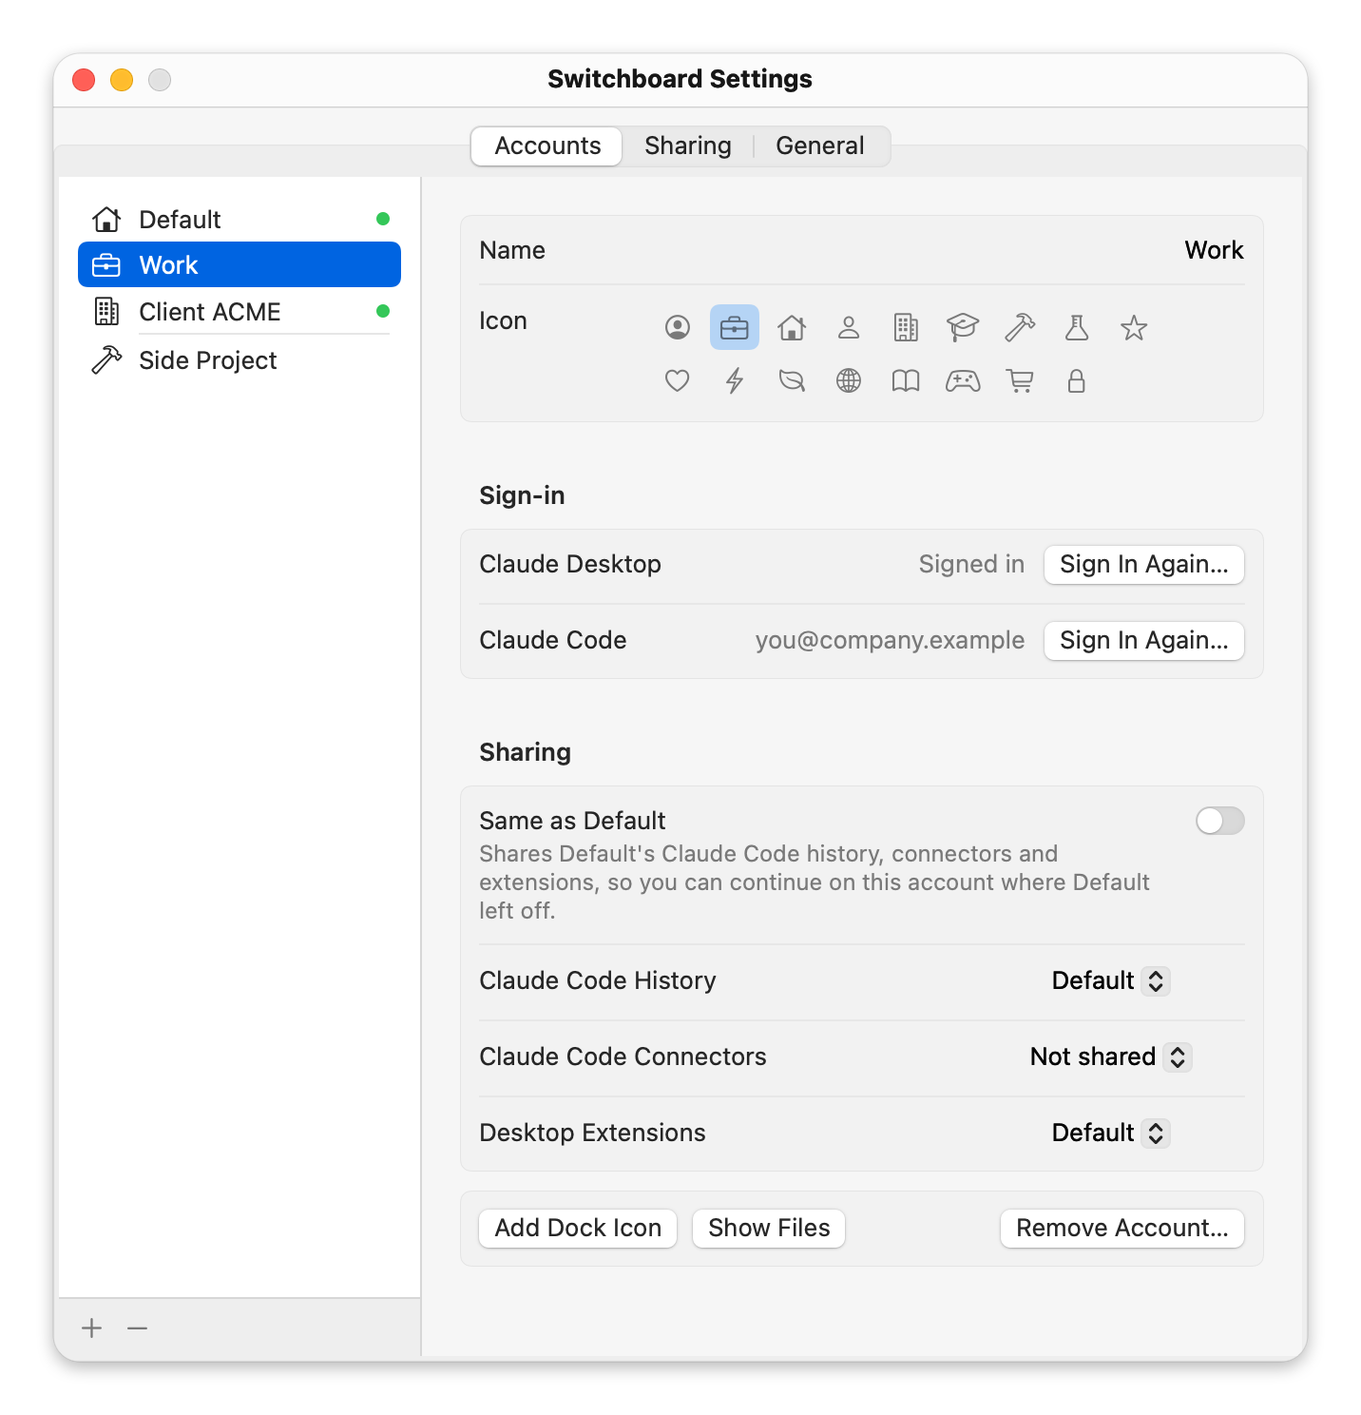
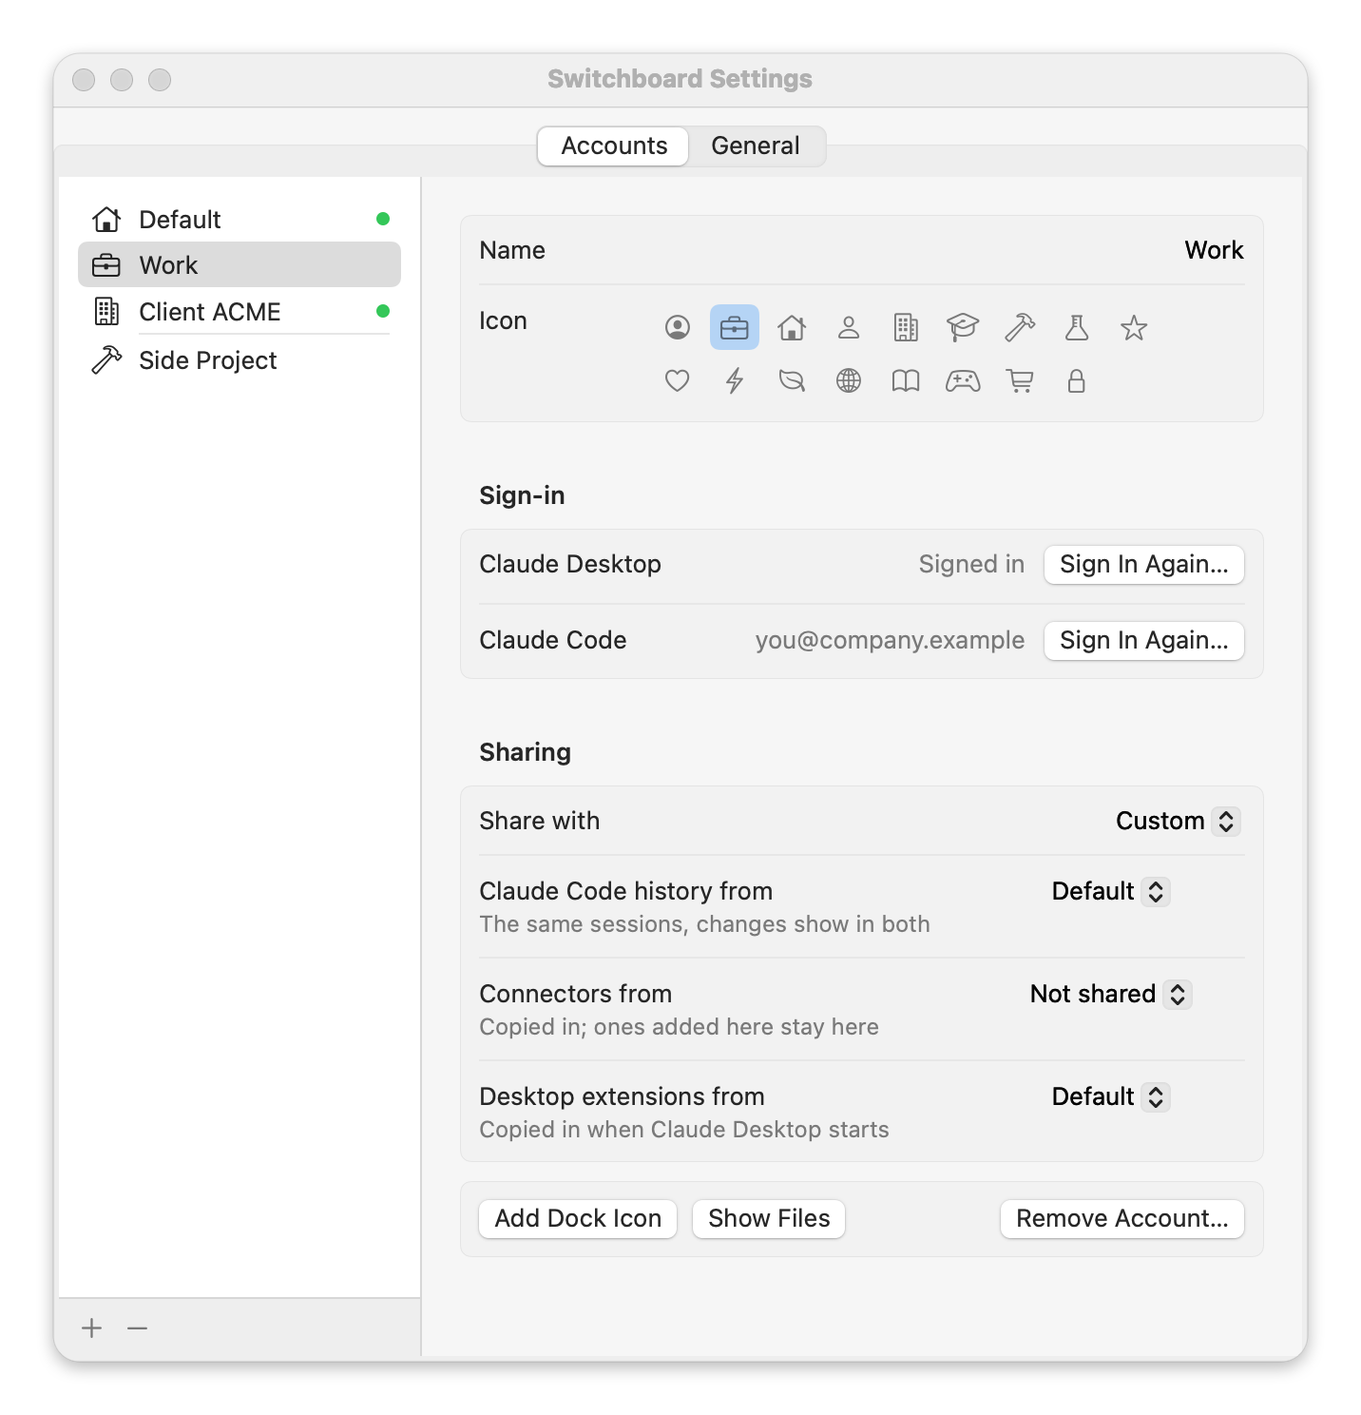
refactor: one sharing choice per account, no Sharing tab
The Sharing tab (a table of nine menus) and the account page both set
the same things, "Default" read like a default value rather than an
account, and "Share with" did not say which way things go.

- Each account's page has one choice: Same as <Default's shown name>,
  Separate, or Custom. Custom shows three "… from" menus, each with a
  line saying how it behaves: history is the same sessions in both,
  connectors and extensions are copied one way.
- Choosing Separate while history is shared asks first.
- The Sharing tab is gone; Settings has Accounts and General.
- Docs explain that only history stays in sync.

diff --git a/Sources/Switchboard/SettingsView.swift b/Sources/Switchboard/SettingsView.swift
@@ -46,8 +46,6 @@ struct SettingsView: View {
         TabView(selection: $model.tab) {
             AccountsPane(model: model)
                 .tabItem { Label("Accounts", systemImage: "person.2") }.tag(SettingsModel.Tab.accounts)
-            SharingPane(model: model)
-                .tabItem { Label("Sharing", systemImage: "arrow.triangle.branch") }.tag(SettingsModel.Tab.sharing)
             GeneralPane(model: model)
                 .tabItem { Label("General", systemImage: "gearshape") }.tag(SettingsModel.Tab.general)
         }
@@ -139,38 +137,10 @@ private struct AccountDetail: View {
                     Button(profile.codeSignedIn ? "Sign In Again…" : "Sign In…") { model.signInCode(profile) }
                 }
             }
-            Section {
-                if profile.isDefault {
-                    let shared = model.sharesFrom(profile)
-                    if shared.isEmpty {
-                        Text("No account shares from this one yet.").foregroundStyle(.secondary)
-                    } else {
-                        ForEach(shared, id: \.thing) { entry in
-                            LabeledContent(entry.thing.title) {
-                                Text(entry.accounts.map(\.displayName).joined(separator: ", ")).foregroundStyle(.secondary)
-                            }
-                        }
-                    }
-                } else {
-                    Toggle(isOn: Binding(get: { model.isSameAsDefault(profile) },
-                                         set: { model.setSameAsDefault(profile, $0) })) {
-                        VStack(alignment: .leading, spacing: 2) {
-                            Text("Same as Default")
-                            Text("Shares Default's Claude Code history, connectors and extensions, so you can continue on this account where Default left off.")
-                                .font(.callout).foregroundStyle(.secondary).fixedSize(horizontal: false, vertical: true)
-                        }
-                    }
-                    if !model.isSameAsDefault(profile) {
-                        ForEach(SharedThing.allCases, id: \.self) { thing in
-                            LabeledContent(thing.title) {
-                                SourcePicker(model: model, profile: profile, thing: thing).frame(width: 150)
-                            }
-                            .help(thing.summary)
-                        }
-                    }
-                }
-            } header: {
-                Text(profile.isDefault ? "Shared from this account" : "Sharing")
+            if profile.isDefault {
+                UsedBySection(model: model, profile: profile)
+            } else {
+                SharingSection(model: model, profile: profile)
             }
             Section {
                 HStack {
@@ -218,53 +188,86 @@ private struct IconPicker: View {
 
 // MARK: - Sharing
 
-private struct SharingPane: View {
+/// An account's one sharing choice: the same as the default account,
+/// separate, or chosen thing by thing.
+private struct SharingSection: View {
     @ObservedObject var model: SettingsModel
+    let profile: Profile
 
     var body: some View {
-        Form {
-            Section {
-                if model.sharingAccounts.isEmpty {
-                    Text("Add a second account to share between accounts.").foregroundStyle(.secondary)
-                } else {
-                    Grid(alignment: .leading, horizontalSpacing: 12, verticalSpacing: 10) {
-                        GridRow {
-                            Text("Account")
-                            ForEach(SharedThing.allCases, id: \.self) { thing in
-                                Text(thing.shortTitle).help(thing.summary)
-                            }
-                        }
-                        .font(.callout.weight(.medium))
-                        .foregroundStyle(.secondary)
-                        Divider().gridCellUnsizedAxes(.horizontal)
-                        ForEach(model.sharingAccounts, id: \.name) { profile in
-                            GridRow {
-                                Label(profile.displayName, systemImage: profile.iconSymbol)
-                                    .lineLimit(1)
-                                    .frame(minWidth: 120, alignment: .leading)
-                                ForEach(SharedThing.allCases, id: \.self) { thing in
-                                    SourcePicker(model: model, profile: profile, thing: thing).fixedSize()
-                                }
-                            }
+        let main = model.defaultDisplayName
+        let mode = model.sharingMode(profile)
+        Section {
+            Picker("Share with", selection: Binding(get: { mode }, set: { model.setSharingMode(profile, $0) })) {
+                Text("Same as \(main)").tag(SettingsModel.SharingMode.same)
+                Text("Separate").tag(SettingsModel.SharingMode.separate)
+                Divider()
+                Text("Custom").tag(SettingsModel.SharingMode.custom)
+            }
+            .pickerStyle(.menu)
+            if mode == .custom {
+                ForEach(SharedThing.allCases, id: \.self) { thing in
+                    LabeledContent {
+                        SourcePicker(model: model, profile: profile, thing: thing).frame(width: 150)
+                    } label: {
+                        VStack(alignment: .leading, spacing: 2) {
+                            Text(Self.from(thing))
+                            Text(Self.how(thing)).font(.callout).foregroundStyle(.secondary)
                         }
                     }
-                    .padding(.vertical, 4)
-                }
-            } header: {
-                Text("Share with another account")
-            } footer: {
-                VStack(alignment: .leading, spacing: 6) {
-                    Note("History: the two accounts use one set of Claude Code sessions. Connectors and extensions: copied from the account you pick. Default can be shared from, but is never changed.")
-                    Note("Rules, skills, plugins and settings are always shared by every account. Conversations in Claude Desktop, and connectors such as Gmail or Slack, belong to one Claude account and cannot be shared.")
                 }
             }
+        } header: {
+            Text("Sharing")
+        } footer: {
+            // Custom explains itself row by row.
+            if mode == .same {
+                Note("Uses \(main)'s Claude Code history, so either account can continue a conversation. \(main)'s connectors and extensions are copied in.")
+            } else if mode == .separate {
+                Note("Keeps its own Claude Code history, connectors and extensions.")
+            }
         }
-        .formStyle(.grouped)
+    }
+
+    static func from(_ thing: SharedThing) -> String {
+        switch thing {
+        case .history: "Claude Code history from"
+        case .connectors: "Connectors from"
+        case .extensions: "Desktop extensions from"
+        }
+    }
+
+    static func how(_ thing: SharedThing) -> String {
+        switch thing {
+        case .history: "The same sessions, changes show in both"
+        case .connectors: "Copied in; ones added here stay here"
+        case .extensions: "Copied in when Claude Desktop starts"
+        }
     }
 }
 
-/// "Not shared", or one of the other accounts. Used in the table and on
-/// each account's page.
+/// On the default account's page: which accounts take what from it.
+private struct UsedBySection: View {
+    @ObservedObject var model: SettingsModel
+    let profile: Profile
+
+    var body: some View {
+        let shared = model.sharesFrom(profile)
+        Section("Shared with other accounts") {
+            if shared.isEmpty {
+                Text("No other account uses this one's history, connectors or extensions.").foregroundStyle(.secondary)
+            } else {
+                ForEach(shared, id: \.thing) { entry in
+                    LabeledContent(entry.thing.title) {
+                        Text(entry.accounts.map(\.displayName).joined(separator: ", ")).foregroundStyle(.secondary)
+                    }
+                }
+            }
+        }
+    }
+}
+
+/// "Not shared", or one of the other accounts.
 private struct SourcePicker: View {
     @ObservedObject var model: SettingsModel
     let profile: Profile

diff --git a/Sources/Switchboard/SettingsModel.swift b/Sources/Switchboard/SettingsModel.swift
@@ -5,7 +5,9 @@ import SwitchboardCore
 /// views read from here and never touch files themselves.
 @MainActor
 final class SettingsModel: ObservableObject {
-    enum Tab: String, CaseIterable { case accounts = "Accounts", sharing = "Sharing", general = "General" }
+    enum Tab: String, CaseIterable { case accounts = "Accounts", general = "General" }
+    /// The one sharing choice on an account's page.
+    enum SharingMode: Hashable { case same, separate, custom }
 
     @Published var tab: Tab = .accounts
     @Published var selected: String = Profile.defaultName
@@ -15,12 +17,31 @@ final class SettingsModel: ObservableObject {
     @Published private(set) var sources: [String: [SharedThing: String]] = [:]
     @Published private(set) var opensAtLogin = false
     @Published private(set) var commandLineToolInstalled = false
+    /// Accounts where "Custom" was picked but nothing is chosen yet, so the
+    /// three menus stay open instead of falling back to "Separate".
+    @Published private var customOpen: Set<String> = []
 
     private let store = ProfileStore.shared
 
     var selectedProfile: Profile? { profiles.first { $0.name == selected } ?? profiles.first }
-    /// The accounts that can be given a source: all but the default one.
-    var sharingAccounts: [Profile] { profiles.filter { !$0.isDefault } }
+    /// The default account's shown name, such as "Work". Never the word
+    /// "Default" unless that is what it is called.
+    var defaultDisplayName: String { profiles.first(where: \.isDefault)?.displayName ?? "Default" }
+
+    func sharingMode(_ profile: Profile) -> SharingMode {
+        if isSameAsDefault(profile) { return .same }
+        if (sources[profile.name] ?? [:]).isEmpty && !customOpen.contains(profile.name) { return .separate }
+        return .custom
+    }
+
+    func setSharingMode(_ profile: Profile, _ mode: SharingMode) {
+        guard mode != sharingMode(profile) else { return }
+        switch mode {
+        case .same: customOpen.remove(profile.name); setSameAsDefault(profile, true)
+        case .separate: customOpen.remove(profile.name); setSameAsDefault(profile, false)
+        case .custom: customOpen.insert(profile.name)
+        }
+    }
 
     func isSameAsDefault(_ profile: Profile) -> Bool {
         !profile.isDefault && SharedThing.allCases.allSatisfy { sources[profile.name]?[$0] == Profile.defaultName }

diff --git a/Sources/Switchboard/Actions.swift b/Sources/Switchboard/Actions.swift
@@ -163,12 +163,19 @@ enum Actions {
     /// Switch "Same as Default" for an account. Returns true if it changed.
     @discardableResult
     static func setSameAsDefault(_ profile: Profile, _ on: Bool) async -> Bool {
-        if on, !Dialogs.confirm("Make “\(profile.displayName)” the same as Default?",
-                                "Its Claude Code sessions join Default's, and Default's connectors and extensions are copied in.",
+        let accounts = accounts, name = profile.name
+        let main = store.profile(named: Profile.defaultName)?.displayName ?? "Default"
+        if on, !Dialogs.confirm("Make “\(profile.displayName)” the same as \(main)?",
+                                "Its Claude Code sessions join \(main)'s, and \(main)'s connectors and extensions are copied in.",
                                 button: "Make Same") {
             return false
         }
-        let accounts = accounts, name = profile.name
+        if !on, Sharing(store: accounts).source(.history, for: name) != nil,
+           !Dialogs.confirm("Keep “\(profile.displayName)” separate?",
+                            "It starts with an empty Claude Code history. The sessions it shared stay where they are.",
+                            button: "Keep Separate") {
+            return false
+        }
         guard await perform({ try Sharing(store: accounts).setSameAsDefault(name, on) }) else { return false }
         Log.write("sharing: \(name) same as default \(on ? "on" : "off")")
         return true

diff --git a/docs/getting-started.md b/docs/getting-started.md
@@ -49,7 +49,7 @@ Click the menu bar icon, choose **Settings…**, and click **+** under the accou
 
 Type a name, such as "Work", and click **Add**. The name is kept exactly as you type it.
 
-A new account starts **Same as Default**: it shares your Default account's Claude Code history, connectors and extensions. You can switch that off on its page in Settings.
+A new account starts the same as your Default account: it shares its Claude Code history, connectors and extensions. You can change that on its page in Settings.
 
 ## 3. Sign in
 
@@ -97,10 +97,6 @@ Pick an account on the left to:
 
 **+** under the list adds an account.
 
-### Sharing
-
-See [What is shared between accounts](#what-is-shared-between-accounts) below.
-
 ### General
 
 <p align="center"><img src="images/settings-general.png" width="560" alt="Settings, General tab: Open at login, Command line tool, Help with Open Guide and Show Log, and Version"></p>
@@ -137,19 +133,17 @@ Each account keeps its own sign-in, chat history, projects and MCP servers.
 
 ### Sharing more
 
-<p align="center"><img src="images/settings-sharing.png" width="560" alt="Settings, Sharing tab: a table with one row per account and a menu for History, Connectors and Extensions in each row"></p>
+Each account's page has one **Sharing** choice. Say your Default account is called Work:
 
-Each account's page in **Settings → Accounts** has a **Same as Default** switch. When it is on, the account shares all three things below with Default. New accounts start with it on. Switch it off to choose each one yourself.
+- **Same as Work:** the account uses Work's Claude Code history, and gets copies of Work's connectors and extensions. New accounts start here.
+- **Separate:** the account keeps its own.
+- **Custom:** choose an account for each of the three: Claude Code history, connectors, and Claude Desktop extensions.
 
-In **Settings → Sharing**, pick for each account which other account it shares with:
+History stays in sync: both accounts use the same sessions, so a change in one shows in the other. Connectors and extensions are copied one way, from the account you chose.
 
-- **History:** the two accounts use one set of Claude Code sessions, so either can resume them.
-- **Connectors:** the other account's MCP servers are copied in.
-- **Extensions:** the other account's Claude Desktop extensions are copied in when Claude Desktop starts.
+Work itself can be shared from but is never changed. Its page lists which accounts use it.
 
-For example, set Client's Connectors to Work, and Client gets every MCP server you add in Work. Leave Personal at "Not shared" and it stays separate.
-
-The same menus are on each account's page in **Settings → Accounts**, when Same as Default is off. Default can be shared from but is never changed.
+Conversations in Claude Desktop, and connectors such as Gmail or Slack, belong to one Claude account on Anthropic's servers and cannot be shared. [How it works](how-it-works.md#optional-sharing) has the details.
 
 ### Continuing on another account
 

diff --git a/docs/troubleshooting.md b/docs/troubleshooting.md
@@ -40,19 +40,19 @@ Switchboard asks Claude Code about its sign-in at most every 10 seconds. Close t
 
 ### A new account has no MCP servers
 
-MCP servers are per account unless you share them. In **Settings → Sharing**, set the new account's Connectors to the account that has the servers, and they are copied in. A copied server may still ask you to sign in once per account.
+MCP servers are per account unless you share them. On the new account's page in Settings, set Sharing to Custom and Connectors to the account that has the servers, and they are copied in. A copied server may still ask you to sign in once per account.
 
 ### A connector I added does not show up in another account
 
-Connectors are copied from the account chosen in **Settings → Sharing**, not from every account. Add it in that account, then open the Switchboard menu or run `cprof sync`.
+Connectors are copied from the account chosen on that account's page in Settings, not from every account. Add it in that account, then open the Switchboard menu or run `cprof sync`.
 
 ### Extensions are missing in another account's Claude Desktop
 
-In **Settings → Sharing**, set that account's Extensions to the account that has them, then quit and reopen its Claude Desktop. Extensions are copied only when its Claude Desktop starts, never while it is running.
+On that account's page in Settings, set Sharing to Custom and Desktop extensions to the account that has them, then quit and reopen its Claude Desktop. Extensions are copied only when its Claude Desktop starts, never while it is running.
 
 ### `cprof continue` starts a new conversation
 
-The account you continue on does not share history with the one you were using, so it cannot see that conversation. Run the command cprof prints, such as `cprof share personal history default`, or switch on **Same as Default** for that account.
+The account you continue on does not share history with the one you were using, so it cannot see that conversation. Run the command cprof prints, such as `cprof share personal history default`, or set that account's Sharing to the same as your Default account.
 
 ### "That would share history in a loop"
 
@@ -60,7 +60,7 @@ History can chain from one account to the next, but not back round to where it s
 
 ### "(account) holds shared history"
 
-Another account keeps its Claude Code sessions in this one, so removing it would delete them. In **Settings → Sharing**, set that account's History to "Not shared" first.
+Another account keeps its Claude Code sessions in this one, so removing it would delete them. On that account's page in Settings, set Sharing to Separate first.
 
 ### Sessions are missing after I started sharing history
 

diff --git a/docs/how-it-works.md b/docs/how-it-works.md
@@ -34,11 +34,19 @@ If you want one account to differ, replace its link with a real file inside `~/.
 
 Beyond the items above, an account can share three more things with another account. You choose, for each account and each thing, which account it shares with.
 
-A new account starts **Same as Default**: it shares all three with the Default account. Switch that off in Settings, or create the account with `cprof add <name> --separate`, and nothing more is shared until you choose.
+Each account's page in **Settings → Accounts** has one **Sharing** choice:
 
-Make the choices in **Settings → Sharing**, on an account's page in **Settings → Accounts**, or with `cprof share`.
+- **Same as Default** (shown with your Default account's name): shares all three with the Default account. New accounts start here.
+- **Separate:** shares none of the three.
+- **Custom:** pick an account for each of the three.
 
-| Thing | When Client shares it with Work | How |
+From the terminal, use `cprof share`, or create an account with `cprof add <name> --separate`.
+
+### Does it stay in sync?
+
+Only history. The two accounts use the same files, so a session changed in one is changed in the other at once. Connectors and extensions are copies, made one way, from the account you picked: something added there arrives later, and something added in the receiving account stays there.
+
+| Thing | When Client takes it from Work | How |
 |---|---|---|
 | **Claude Code History** | Client and Work use one set of sessions. `claude --resume` in either lists both accounts' sessions, with per-project memory and the saved file versions used to rewind. | Client's history folders become links to Work's. |
 | **Claude Code Connectors** | Work's MCP servers (those added with `claude mcp add --scope user`) are copied into Client. | Copied into Client's settings file, every time you open the menu or Settings. |

diff --git a/README.md b/README.md
@@ -9,7 +9,7 @@ A menu bar app for Claude Desktop and Claude Code.</p>
   <img src="docs/images/menu.png" width="320" alt="The Switchboard menu: four accounts, two with a green dot because their Claude Desktop is running, then Settings and Quit">
 </p>
 <p align="center">
-  <img src="docs/images/settings-sharing.png" width="560" alt="Switchboard Settings, Sharing tab: for each account, which other account it shares history, connectors and extensions with">
+  <img src="docs/images/settings-accounts.png" width="560" alt="Switchboard Settings: an account's page with its name, icon, sign-in, and a Sharing choice set to Custom, showing which account its history, connectors and extensions come from">
 </p>
 
 ## Why

diff --git a/docs/development.md b/docs/development.md
@@ -39,7 +39,7 @@ Sources/SwitchboardCore/      Every rule, once. No user interface.
   Shell.swift                   running other programs, and asking Claude Code about its login
 Sources/Switchboard/          The menu bar app.
   MenuController.swift          the menu bar menu: accounts, Settings, Quit
-  SettingsView.swift            the Settings window: Accounts, Sharing and General tabs
+  SettingsView.swift            the Settings window: Accounts and General tabs
   SettingsModel.swift           what the Settings window shows, and the changes it asks for
   Actions.swift                 everything the app can do; the menu and Settings both call it
   DesktopSignIn.swift           the sign-in flow
